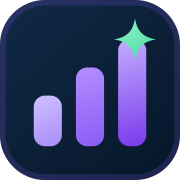
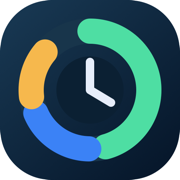
Polish dashboard navigation and chart branding

diff --git a/public/legacy.html b/public/legacy.html
@@ -170,7 +170,7 @@
   .btn:disabled,.composer-save:disabled{cursor:not-allowed; opacity:.58; transform:none; box-shadow:none}
   .btn:active,.chip:active,.acct-chip:active{transform:translateY(1px)}
   .btn.primary{background:var(--accent); border-color:var(--accent); color:oklch(98% .006 286)}
-  .header-row{display:flex; justify-content:space-between; align-items:flex-start; gap:16px; flex-wrap:wrap}
+  .header-row{display:flex; justify-content:space-between; align-items:flex-start; gap:16px; flex-wrap:wrap; padding-bottom:10px}
   .header-actions{display:flex;align-items:center;justify-content:flex-end;gap:10px;flex-wrap:wrap;margin-left:auto}
 
   button:focus-visible, input:focus-visible, select:focus-visible, .acct-chip:focus-visible,
@@ -443,8 +443,14 @@
   .card,.kpi,.recur-kpi,.controls,.preview-kpi,.admin-section,.import-drop{background:var(--panel)}
   .card,.controls,.admin-section{border-radius:20px}
   .kpi,.recur-kpi{border-radius:16px}
-  .card{transition:border-color .2s var(--ease-out),box-shadow .2s var(--ease-out)}
-  .card:hover{border-color:var(--line-strong); box-shadow:0 12px 28px -24px rgba(0,0,0,.7)}
+  .card{transition:border-color .18s var(--ease-out),box-shadow .18s var(--ease-out),transform .18s var(--ease-out)}
+  @media(hover:hover){
+    .card:hover,.kpi:hover,.recur-kpi:hover,.scard:hover,.wallet-card:hover,.fun-card:hover,.admin-section:hover,.import-drop:hover{
+      transform:translateY(-2px); border-color:color-mix(in srgb,var(--accent-strong) 52%,var(--line));
+      box-shadow:0 20px 38px -25px rgba(78,222,163,.46),0 12px 26px -22px rgba(0,0,0,.76);
+    }
+    .wallet-card:hover{box-shadow:0 24px 42px -25px rgba(78,222,163,.42),0 14px 28px -22px rgba(0,0,0,.8)}
+  }
   .card h2{font-size:16px}
   .kpi .value{font-size:26px}
   /* keep scrollable table + sticky header crisp (no blur bleed) */
@@ -455,6 +461,8 @@
   .btn.primary{background:var(--accent); border-color:var(--accent); color:oklch(98% .006 286);
     box-shadow:0 8px 20px -8px rgba(139,92,246,.5)}
   .btn.primary:hover{filter:brightness(1.08); border-color:transparent}
+  .theme-toggle{width:44px; min-width:44px; padding:0; display:inline-flex; align-items:center; justify-content:center}
+  html[data-theme="light"] .theme-toggle{color:#b45309; border-color:color-mix(in srgb,#f59e0b 45%,var(--line))}
   .chip.active{background:linear-gradient(135deg,#8b5cf6,#a855f7); border-color:transparent; color:#fff}
 
   /* left sidebar (desktop) */
@@ -462,10 +470,11 @@
     flex-direction:column; gap:6px; padding:22px 16px;
     background:var(--panel);
     border-right:1px solid var(--line)}
-  .sb-brand{display:flex; align-items:center; gap:11px; font-weight:800; font-size:20px;
-    color:var(--success); padding:4px 8px 18px}
-  .sb-brand .sb-logo{display:inline-flex; width:30px; height:30px; align-items:center; justify-content:center;
-    border-radius:9px; background:linear-gradient(135deg,#8b5cf6,#4edea3); color:#0b1326; font-size:16px}
+  .sb-brand{display:flex; align-items:center; gap:13px; font-weight:800; font-size:20px;
+    color:var(--success); padding:4px 8px 22px}
+  .sb-brand .sb-logo{display:inline-flex; width:48px; height:48px; flex:0 0 48px; align-items:center; justify-content:center;
+    border-radius:15px; background:#0b2033; border:1px solid rgba(78,222,163,.24); overflow:hidden}
+  .sb-logo svg{display:block; width:42px; height:42px}
   .sb-nav{display:flex; flex-direction:column; gap:4px; flex:1}
   .sb-nav a,.sb-foot a{display:flex; align-items:center; gap:12px; padding:11px 12px; border-radius:12px;
     color:var(--muted); font-size:14px; font-weight:600; cursor:pointer; text-decoration:none;
@@ -505,7 +514,7 @@
 
   /* ===================== Tabbed pages ===================== */
   .tab-off{display:none !important}
-  .pagetabs{display:flex; gap:8px; flex-wrap:wrap; margin:0 0 20px; padding:6px;
+  .pagetabs{display:flex; gap:8px; flex-wrap:wrap; margin:12px 0 22px; padding:6px;
     background:var(--panel); border:1px solid var(--line); border-radius:14px}
   .ptab{display:inline-flex; align-items:center; gap:8px; border:none; cursor:pointer;
     background:transparent; color:var(--muted); font-size:14px; font-weight:650; font-family:"Inter",sans-serif;
@@ -800,7 +809,7 @@
   <div class="dz-s">They'll be parsed, deduped, and added instantly.</div>
 </div></div>
 <aside id="sidebar">
-  <div class="sb-brand"><span class="sb-logo">◈</span> Nhihad's Expense Tracker</div>
+  <div class="sb-brand"><span class="sb-logo" aria-hidden="true"><svg viewBox="0 0 64 64" fill="none"><circle cx="32" cy="32" r="23" stroke="#19354a" stroke-width="8"/><path d="M32 9a23 23 0 1 1-20.8 13.2" stroke="#4edea3" stroke-width="8" stroke-linecap="round"/><path d="M14.5 19.8A23 23 0 0 1 27 9.6" stroke="#3b82f6" stroke-width="8" stroke-linecap="round"/><circle cx="32" cy="32" r="12" fill="#0b2033"/><path d="M32 20v12l9 5" stroke="#dfffee" stroke-width="3" stroke-linecap="round" stroke-linejoin="round"/></svg></span> Nhihad's Expense Tracker</div>
   <nav class="sb-nav">
     <a class="active" href="#tab-dashboard" data-page="dashboard"><span class="material-symbols-outlined">dashboard</span> Dashboard</a>
     <a href="#cash-flow" data-cashflow-page><span class="material-symbols-outlined">donut_large</span> Cash flow</a>
@@ -828,7 +837,7 @@
       </span>
       <button class="btn view-nav active" id="dashboardNav" type="button">Dashboard</button>
       <button class="btn view-nav" id="adminNav" type="button">Admin</button>
-      <button class="btn" id="themeToggle" type="button" aria-pressed="false">Light theme</button>
+      <button class="btn theme-toggle" id="themeToggle" type="button" aria-pressed="false" aria-label="Switch to light theme"><span class="material-symbols-outlined" aria-hidden="true">dark_mode</span><span class="sr-only">Switch theme</span></button>
       <button class="btn primary" id="export">Export CSV</button>
     </div>
   </header>
@@ -1311,7 +1320,12 @@ function applyTheme(theme){
   const value=theme==="light"?"light":"dark";
   document.documentElement.dataset.theme=value;
   const button=$("themeToggle");
-  if(button){ button.textContent=value==="light"?"Dark theme":"Light theme"; button.setAttribute("aria-pressed",value==="light"?"true":"false"); }
+  if(button){
+    const next=value==="light"?"dark":"light";
+    button.innerHTML=`<span class="material-symbols-outlined" aria-hidden="true">${value==="light"?"light_mode":"dark_mode"}</span><span class="sr-only">Switch to ${next} theme</span>`;
+    button.setAttribute("aria-label",`Switch to ${next} theme`);
+    button.setAttribute("aria-pressed",value==="light"?"true":"false");
+  }
   try{ localStorage.setItem(THEME_KEY,value); }catch(e){}
 }
 applyTheme((()=>{ try{return localStorage.getItem(THEME_KEY)||"dark";}catch(e){return "dark";} })());

diff --git a/web/index.html b/web/index.html
@@ -170,7 +170,7 @@
   .btn:disabled,.composer-save:disabled{cursor:not-allowed; opacity:.58; transform:none; box-shadow:none}
   .btn:active,.chip:active,.acct-chip:active{transform:translateY(1px)}
   .btn.primary{background:var(--accent); border-color:var(--accent); color:oklch(98% .006 286)}
-  .header-row{display:flex; justify-content:space-between; align-items:flex-start; gap:16px; flex-wrap:wrap}
+  .header-row{display:flex; justify-content:space-between; align-items:flex-start; gap:16px; flex-wrap:wrap; padding-bottom:10px}
   .header-actions{display:flex;align-items:center;justify-content:flex-end;gap:10px;flex-wrap:wrap;margin-left:auto}
 
   button:focus-visible, input:focus-visible, select:focus-visible, .acct-chip:focus-visible,
@@ -443,8 +443,14 @@
   .card,.kpi,.recur-kpi,.controls,.preview-kpi,.admin-section,.import-drop{background:var(--panel)}
   .card,.controls,.admin-section{border-radius:20px}
   .kpi,.recur-kpi{border-radius:16px}
-  .card{transition:border-color .2s var(--ease-out),box-shadow .2s var(--ease-out)}
-  .card:hover{border-color:var(--line-strong); box-shadow:0 12px 28px -24px rgba(0,0,0,.7)}
+  .card{transition:border-color .18s var(--ease-out),box-shadow .18s var(--ease-out),transform .18s var(--ease-out)}
+  @media(hover:hover){
+    .card:hover,.kpi:hover,.recur-kpi:hover,.scard:hover,.wallet-card:hover,.fun-card:hover,.admin-section:hover,.import-drop:hover{
+      transform:translateY(-2px); border-color:color-mix(in srgb,var(--accent-strong) 52%,var(--line));
+      box-shadow:0 20px 38px -25px rgba(78,222,163,.46),0 12px 26px -22px rgba(0,0,0,.76);
+    }
+    .wallet-card:hover{box-shadow:0 24px 42px -25px rgba(78,222,163,.42),0 14px 28px -22px rgba(0,0,0,.8)}
+  }
   .card h2{font-size:16px}
   .kpi .value{font-size:26px}
   /* keep scrollable table + sticky header crisp (no blur bleed) */
@@ -455,6 +461,8 @@
   .btn.primary{background:var(--accent); border-color:var(--accent); color:oklch(98% .006 286);
     box-shadow:0 8px 20px -8px rgba(139,92,246,.5)}
   .btn.primary:hover{filter:brightness(1.08); border-color:transparent}
+  .theme-toggle{width:44px; min-width:44px; padding:0; display:inline-flex; align-items:center; justify-content:center}
+  html[data-theme="light"] .theme-toggle{color:#b45309; border-color:color-mix(in srgb,#f59e0b 45%,var(--line))}
   .chip.active{background:linear-gradient(135deg,#8b5cf6,#a855f7); border-color:transparent; color:#fff}
 
   /* left sidebar (desktop) */
@@ -462,10 +470,11 @@
     flex-direction:column; gap:6px; padding:22px 16px;
     background:var(--panel);
     border-right:1px solid var(--line)}
-  .sb-brand{display:flex; align-items:center; gap:11px; font-weight:800; font-size:20px;
-    color:var(--success); padding:4px 8px 18px}
-  .sb-brand .sb-logo{display:inline-flex; width:30px; height:30px; align-items:center; justify-content:center;
-    border-radius:9px; background:linear-gradient(135deg,#8b5cf6,#4edea3); color:#0b1326; font-size:16px}
+  .sb-brand{display:flex; align-items:center; gap:13px; font-weight:800; font-size:20px;
+    color:var(--success); padding:4px 8px 22px}
+  .sb-brand .sb-logo{display:inline-flex; width:48px; height:48px; flex:0 0 48px; align-items:center; justify-content:center;
+    border-radius:15px; background:#0b2033; border:1px solid rgba(78,222,163,.24); overflow:hidden}
+  .sb-logo svg{display:block; width:42px; height:42px}
   .sb-nav{display:flex; flex-direction:column; gap:4px; flex:1}
   .sb-nav a,.sb-foot a{display:flex; align-items:center; gap:12px; padding:11px 12px; border-radius:12px;
     color:var(--muted); font-size:14px; font-weight:600; cursor:pointer; text-decoration:none;
@@ -505,7 +514,7 @@
 
   /* ===================== Tabbed pages ===================== */
   .tab-off{display:none !important}
-  .pagetabs{display:flex; gap:8px; flex-wrap:wrap; margin:0 0 20px; padding:6px;
+  .pagetabs{display:flex; gap:8px; flex-wrap:wrap; margin:12px 0 22px; padding:6px;
     background:var(--panel); border:1px solid var(--line); border-radius:14px}
   .ptab{display:inline-flex; align-items:center; gap:8px; border:none; cursor:pointer;
     background:transparent; color:var(--muted); font-size:14px; font-weight:650; font-family:"Inter",sans-serif;
@@ -800,7 +809,7 @@
   <div class="dz-s">They'll be parsed, deduped, and added instantly.</div>
 </div></div>
 <aside id="sidebar">
-  <div class="sb-brand"><span class="sb-logo">◈</span> Nhihad's Expense Tracker</div>
+  <div class="sb-brand"><span class="sb-logo" aria-hidden="true"><svg viewBox="0 0 64 64" fill="none"><circle cx="32" cy="32" r="23" stroke="#19354a" stroke-width="8"/><path d="M32 9a23 23 0 1 1-20.8 13.2" stroke="#4edea3" stroke-width="8" stroke-linecap="round"/><path d="M14.5 19.8A23 23 0 0 1 27 9.6" stroke="#3b82f6" stroke-width="8" stroke-linecap="round"/><circle cx="32" cy="32" r="12" fill="#0b2033"/><path d="M32 20v12l9 5" stroke="#dfffee" stroke-width="3" stroke-linecap="round" stroke-linejoin="round"/></svg></span> Nhihad's Expense Tracker</div>
   <nav class="sb-nav">
     <a class="active" href="#tab-dashboard" data-page="dashboard"><span class="material-symbols-outlined">dashboard</span> Dashboard</a>
     <a href="#cash-flow" data-cashflow-page><span class="material-symbols-outlined">donut_large</span> Cash flow</a>
@@ -828,7 +837,7 @@
       </span>
       <button class="btn view-nav active" id="dashboardNav" type="button">Dashboard</button>
       <button class="btn view-nav" id="adminNav" type="button">Admin</button>
-      <button class="btn" id="themeToggle" type="button" aria-pressed="false">Light theme</button>
+      <button class="btn theme-toggle" id="themeToggle" type="button" aria-pressed="false" aria-label="Switch to light theme"><span class="material-symbols-outlined" aria-hidden="true">dark_mode</span><span class="sr-only">Switch theme</span></button>
       <button class="btn primary" id="export">Export CSV</button>
     </div>
   </header>
@@ -1311,7 +1320,12 @@ function applyTheme(theme){
   const value=theme==="light"?"light":"dark";
   document.documentElement.dataset.theme=value;
   const button=$("themeToggle");
-  if(button){ button.textContent=value==="light"?"Dark theme":"Light theme"; button.setAttribute("aria-pressed",value==="light"?"true":"false"); }
+  if(button){
+    const next=value==="light"?"dark":"light";
+    button.innerHTML=`<span class="material-symbols-outlined" aria-hidden="true">${value==="light"?"light_mode":"dark_mode"}</span><span class="sr-only">Switch to ${next} theme</span>`;
+    button.setAttribute("aria-label",`Switch to ${next} theme`);
+    button.setAttribute("aria-pressed",value==="light"?"true":"false");
+  }
   try{ localStorage.setItem(THEME_KEY,value); }catch(e){}
 }
 applyTheme((()=>{ try{return localStorage.getItem(THEME_KEY)||"dark";}catch(e){return "dark";} })());

diff --git a/build_dashboard.py b/build_dashboard.py
@@ -261,7 +261,7 @@ HTML_TEMPLATE = r"""<!DOCTYPE html>
   .btn:disabled,.composer-save:disabled{cursor:not-allowed; opacity:.58; transform:none; box-shadow:none}
   .btn:active,.chip:active,.acct-chip:active{transform:translateY(1px)}
   .btn.primary{background:var(--accent); border-color:var(--accent); color:oklch(98% .006 286)}
-  .header-row{display:flex; justify-content:space-between; align-items:flex-start; gap:16px; flex-wrap:wrap}
+  .header-row{display:flex; justify-content:space-between; align-items:flex-start; gap:16px; flex-wrap:wrap; padding-bottom:10px}
   .header-actions{display:flex;align-items:center;justify-content:flex-end;gap:10px;flex-wrap:wrap;margin-left:auto}
 
   button:focus-visible, input:focus-visible, select:focus-visible, .acct-chip:focus-visible,
@@ -534,8 +534,14 @@ HTML_TEMPLATE = r"""<!DOCTYPE html>
   .card,.kpi,.recur-kpi,.controls,.preview-kpi,.admin-section,.import-drop{background:var(--panel)}
   .card,.controls,.admin-section{border-radius:20px}
   .kpi,.recur-kpi{border-radius:16px}
-  .card{transition:border-color .2s var(--ease-out),box-shadow .2s var(--ease-out)}
-  .card:hover{border-color:var(--line-strong); box-shadow:0 12px 28px -24px rgba(0,0,0,.7)}
+  .card{transition:border-color .18s var(--ease-out),box-shadow .18s var(--ease-out),transform .18s var(--ease-out)}
+  @media(hover:hover){
+    .card:hover,.kpi:hover,.recur-kpi:hover,.scard:hover,.wallet-card:hover,.fun-card:hover,.admin-section:hover,.import-drop:hover{
+      transform:translateY(-2px); border-color:color-mix(in srgb,var(--accent-strong) 52%,var(--line));
+      box-shadow:0 20px 38px -25px rgba(78,222,163,.46),0 12px 26px -22px rgba(0,0,0,.76);
+    }
+    .wallet-card:hover{box-shadow:0 24px 42px -25px rgba(78,222,163,.42),0 14px 28px -22px rgba(0,0,0,.8)}
+  }
   .card h2{font-size:16px}
   .kpi .value{font-size:26px}
   /* keep scrollable table + sticky header crisp (no blur bleed) */
@@ -546,6 +552,8 @@ HTML_TEMPLATE = r"""<!DOCTYPE html>
   .btn.primary{background:var(--accent); border-color:var(--accent); color:oklch(98% .006 286);
     box-shadow:0 8px 20px -8px rgba(139,92,246,.5)}
   .btn.primary:hover{filter:brightness(1.08); border-color:transparent}
+  .theme-toggle{width:44px; min-width:44px; padding:0; display:inline-flex; align-items:center; justify-content:center}
+  html[data-theme="light"] .theme-toggle{color:#b45309; border-color:color-mix(in srgb,#f59e0b 45%,var(--line))}
   .chip.active{background:linear-gradient(135deg,#8b5cf6,#a855f7); border-color:transparent; color:#fff}
 
   /* left sidebar (desktop) */
@@ -553,10 +561,11 @@ HTML_TEMPLATE = r"""<!DOCTYPE html>
     flex-direction:column; gap:6px; padding:22px 16px;
     background:var(--panel);
     border-right:1px solid var(--line)}
-  .sb-brand{display:flex; align-items:center; gap:11px; font-weight:800; font-size:20px;
-    color:var(--success); padding:4px 8px 18px}
-  .sb-brand .sb-logo{display:inline-flex; width:30px; height:30px; align-items:center; justify-content:center;
-    border-radius:9px; background:linear-gradient(135deg,#8b5cf6,#4edea3); color:#0b1326; font-size:16px}
+  .sb-brand{display:flex; align-items:center; gap:13px; font-weight:800; font-size:20px;
+    color:var(--success); padding:4px 8px 22px}
+  .sb-brand .sb-logo{display:inline-flex; width:48px; height:48px; flex:0 0 48px; align-items:center; justify-content:center;
+    border-radius:15px; background:#0b2033; border:1px solid rgba(78,222,163,.24); overflow:hidden}
+  .sb-logo svg{display:block; width:42px; height:42px}
   .sb-nav{display:flex; flex-direction:column; gap:4px; flex:1}
   .sb-nav a,.sb-foot a{display:flex; align-items:center; gap:12px; padding:11px 12px; border-radius:12px;
     color:var(--muted); font-size:14px; font-weight:600; cursor:pointer; text-decoration:none;
@@ -596,7 +605,7 @@ HTML_TEMPLATE = r"""<!DOCTYPE html>
 
   /* ===================== Tabbed pages ===================== */
   .tab-off{display:none !important}
-  .pagetabs{display:flex; gap:8px; flex-wrap:wrap; margin:0 0 20px; padding:6px;
+  .pagetabs{display:flex; gap:8px; flex-wrap:wrap; margin:12px 0 22px; padding:6px;
     background:var(--panel); border:1px solid var(--line); border-radius:14px}
   .ptab{display:inline-flex; align-items:center; gap:8px; border:none; cursor:pointer;
     background:transparent; color:var(--muted); font-size:14px; font-weight:650; font-family:"Inter",sans-serif;
@@ -891,7 +900,7 @@ HTML_TEMPLATE = r"""<!DOCTYPE html>
   <div class="dz-s">They'll be parsed, deduped, and added instantly.</div>
 </div></div>
 <aside id="sidebar">
-  <div class="sb-brand"><span class="sb-logo">◈</span> Nhihad's Expense Tracker</div>
+  <div class="sb-brand"><span class="sb-logo" aria-hidden="true"><svg viewBox="0 0 64 64" fill="none"><circle cx="32" cy="32" r="23" stroke="#19354a" stroke-width="8"/><path d="M32 9a23 23 0 1 1-20.8 13.2" stroke="#4edea3" stroke-width="8" stroke-linecap="round"/><path d="M14.5 19.8A23 23 0 0 1 27 9.6" stroke="#3b82f6" stroke-width="8" stroke-linecap="round"/><circle cx="32" cy="32" r="12" fill="#0b2033"/><path d="M32 20v12l9 5" stroke="#dfffee" stroke-width="3" stroke-linecap="round" stroke-linejoin="round"/></svg></span> Nhihad's Expense Tracker</div>
   <nav class="sb-nav">
     <a class="active" href="#tab-dashboard" data-page="dashboard"><span class="material-symbols-outlined">dashboard</span> Dashboard</a>
     <a href="#cash-flow" data-cashflow-page><span class="material-symbols-outlined">donut_large</span> Cash flow</a>
@@ -919,7 +928,7 @@ HTML_TEMPLATE = r"""<!DOCTYPE html>
       </span>
       <button class="btn view-nav active" id="dashboardNav" type="button">Dashboard</button>
       <button class="btn view-nav" id="adminNav" type="button">Admin</button>
-      <button class="btn" id="themeToggle" type="button" aria-pressed="false">Light theme</button>
+      <button class="btn theme-toggle" id="themeToggle" type="button" aria-pressed="false" aria-label="Switch to light theme"><span class="material-symbols-outlined" aria-hidden="true">dark_mode</span><span class="sr-only">Switch theme</span></button>
       <button class="btn primary" id="export">Export CSV</button>
     </div>
   </header>
@@ -1402,7 +1411,12 @@ function applyTheme(theme){
   const value=theme==="light"?"light":"dark";
   document.documentElement.dataset.theme=value;
   const button=$("themeToggle");
-  if(button){ button.textContent=value==="light"?"Dark theme":"Light theme"; button.setAttribute("aria-pressed",value==="light"?"true":"false"); }
+  if(button){
+    const next=value==="light"?"dark":"light";
+    button.innerHTML=`<span class="material-symbols-outlined" aria-hidden="true">${value==="light"?"light_mode":"dark_mode"}</span><span class="sr-only">Switch to ${next} theme</span>`;
+    button.setAttribute("aria-label",`Switch to ${next} theme`);
+    button.setAttribute("aria-pressed",value==="light"?"true":"false");
+  }
   try{ localStorage.setItem(THEME_KEY,value); }catch(e){}
 }
 applyTheme((()=>{ try{return localStorage.getItem(THEME_KEY)||"dark";}catch(e){return "dark";} })());
